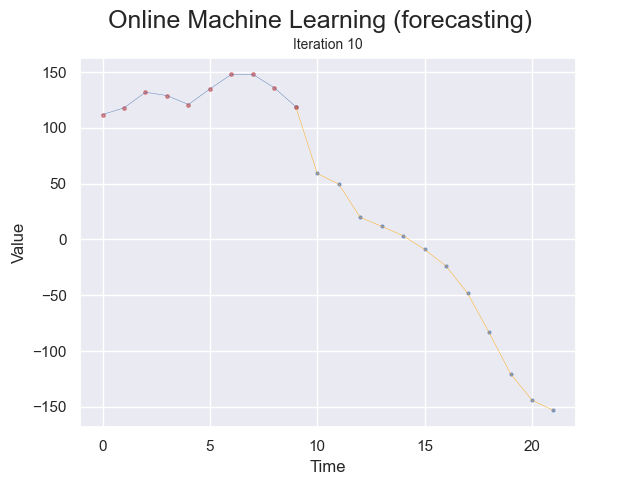
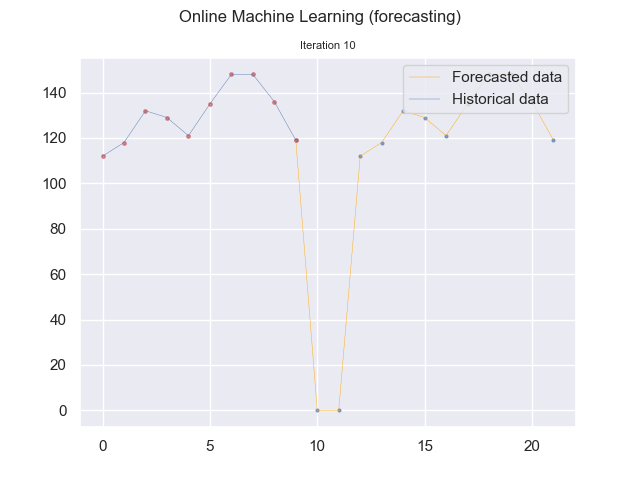
online forecasting on the fly

diff --git a/server_forecasting2.py b/server_forecasting2.py
@@ -1,0 +1,191 @@
+from http.server import BaseHTTPRequestHandler, HTTPServer
+import cgi
+import sys
+import rdflib
+import sys
+import data_processing.ttl2jsonld
+import data_processing.crawled
+from rdflib import Graph, plugin
+from functools import lru_cache
+from rdflib import Graph, URIRef, Literal, BNode
+from rdflib.namespace import FOAF, RDF
+from river import datasets
+from river import metrics
+from river import time_series
+import datetime as dt
+import seaborn as sns
+import numpy as np
+import matplotlib.pyplot as plt
+
+@lru_cache(maxsize=2048)
+class One(object):
+    def __init__(self):
+        self.a = None
+
+    def set_a(self,val):
+        self.a = val
+
+    def get_a(self):
+        return self.a
+
+One().set_a('There is no POST request received yet in the ml server')
+
+file_names = []
+y_list = []
+time_history=[0]
+temperature_history = []
+
+
+class webserverHandler(BaseHTTPRequestHandler):
+    """docstring for webserverHandler"""
+
+    def do_GET(self):
+        try:
+            if self.path.endswith("/output"):
+                self.send_response(200)
+                self.send_header('Content-Type', 'text/html')
+                self.end_headers()
+
+                """
+                output = ""
+                output += '<html><body>Hello!'
+                output += '<form method="POST" enctype="multipart/form-data" action="/hello"><h2> What would you like me to say?</h2><input name="message" type="text" /><input type="submit" value="Submit" /></form>'
+                output += '</body></html>'
+                """
+
+                output = One().get_a()
+
+                self.wfile.write(output.encode())
+                #print(output)
+                return
+
+
+
+        except IOError:
+            self.send_error(404, "File not found %s" % self.path)
+
+    def do_POST(self):
+        try:
+            if self.path.endswith("/input"):
+                self.send_response(200)
+                self.send_header('Content-Type', 'text/html')
+                self.end_headers()
+                ctype, pdict = cgi.parse_header(self.headers.get('Content-Type'))
+
+
+                content_len = int(self.headers.get('Content-length'))
+                post_body = self.rfile.read(content_len)
+                #pdict['boundary'] = bytes(pdict['boundary'], "utf-8")
+                #pdict['CONTENT-LENGTH'] = content_len
+                print('POST request input:')
+                print(post_body)
+
+                
+                testrdf = """
+                @prefix dcterms: <http://purl.org/dc/terms/> .
+                <http://example.org/about>
+                dcterms:temperature "10"@en ;
+                dcterms:salinity "20"@en .
+                """
+
+                ##CONVERSION TO JSON-LD
+                print('conversion to json-ld:')
+                #print(data_processing.ttl2jsonld.convert_rdf_2_jsonld(post_body))
+                input = data_processing.ttl2jsonld.convert_rdf_2_jsonld(post_body)
+                
+                g = Graph().parse(data=input, format='json-ld')
+                salinity = data_processing.crawled.crawl_parameter('http://purl.org/dc/terms/salinity', g)
+                print('crawled salinity is :' + salinity)
+
+                time_it = data_processing.crawled.crawl_parameter('http://purl.org/dc/terms/time', g)
+                print('crawled time is :' + time_it)
+
+                temperature = data_processing.crawled.crawl_parameter('http://purl.org/dc/terms/temperature', g)
+                print('crawled temperature is :' + temperature)
+                temperature = float(temperature)
+                temperature_history.append(float(temperature))
+
+                print (len(time_history))
+                if len(time_history)==1:
+                    global model
+                    period = 12
+                    model = time_series.SNARIMAX(
+                    p=period,
+                    d=1,
+                    q=period,
+                    m=period,
+                    sd=1
+                    )
+                    
+                    """
+                    p (int): Order of the autoregressive part. This is the number of past target values that will be included as features.
+                    d (int):Differencing order.
+                    q (int):Order of the moving average part. This is the number of past error terms that will be included as features.
+                    m (int) – defaults to 1:Season length used for extracting seasonal features. If you believe your data has a seasonal pattern, then set this accordingly. For instance, if the data seems to exhibit a yearly seasonality, and that your data is spaced by month, then you should set this to 12. Note that for this parameter to have any impact you should also set at least one of the p, d, and q parameters.
+                    sp (int) – defaults to 0: Seasonal order of the autoregressive part. This is the number of past target values that will be included as features.
+                    sd (int) – defaults to 0: Seasonal differencing order.
+                    sq (int) – defaults to 0: Seasonal order of the moving average part. This is the number of past error terms that will be included as features.
+                    """
+               
+                    
+
+                #Training Online Forecosting model
+                horizon=12
+                model = model.learn_one(temperature)
+                
+                #Online Forecasting
+                forecast_output = model.forecast(horizon=horizon)
+                print(forecast_output)
+                t_list2=[]
+                for i in range(len(forecast_output)+1):
+                    t_list2.append(time_history[-1] + i )
+                forecast_output.insert(0, temperature_history[-1])
+
+                plt.figure()
+                sns.set()
+
+                #Plotting
+                print(forecast_output)
+                plt.scatter(t_list2, forecast_output, c='b', alpha=0.6, s=4)
+                plt.plot(t_list2, forecast_output, c='orange', linewidth=0.3, label='Forecasted data')
+                plt.scatter(time_history, temperature_history, c='r', alpha=0.6, s=6)
+                plt.plot(time_history, temperature_history, linewidth=0.3, label='Historical data')
+                time_history.append(time_history[-1] + 1)
+                plt.suptitle("Online Machine Learning (forecasting)", fontsize=12)
+                plt.title("Iteration {y}".format(y=time_history[-1]), fontsize=8)
+                plt.legend(loc='upper right')
+                plt.savefig("./output_ml/it_{y}.png".format(y=time_history[-1]))
+                print("./output_ml/it_{y}.png".format(y=time_history[-1]))
+                file_names.append("./output_ml/it_{y}.png".format(y=time_history[-1]))
+                test = 'gelukt'
+                One().set_a('gelukt')
+                ##ADD PREDICTION TO GRAPH
+                #self.wfile.write(test.encode())
+
+                if (time_it == 140):
+                    import imageio
+                    images = []
+                    for filename in file_names:
+                        images.append(imageio.imread(filename))
+                    imageio.mimsave('./output_ml/movie.gif', images)
+
+                return
+        except:
+            #self.send_error(404, "{}".format(sys.exc_info()[1]))
+            print(sys.exc_info())
+
+def main():
+    try:
+        port = 8000
+        server = HTTPServer(('', port), webserverHandler)
+        print("Web server running on port %s" % port)
+        server.serve_forever()
+
+
+    except KeyboardInterrupt:
+        print(" ^C entered stopping web server...")
+        server.socket.close()
+
+
+if __name__ == '__main__':
+    main()

diff --git a/server_forecasting.py b/server_forecasting.py
@@ -124,16 +124,20 @@ class webserverHandler(BaseHTTPRequestHandler):
                     multiplicative (defaults to False): Whether or not to use a multiplicative formulation.
                     """
 
+                    
                     #Evalute TODO
                     dataset = datasets.AirlinePassengers()
                     metric = metrics.MAE()
-
-                    time_series.evaluate(
-                        dataset,
-                        model,
-                        metric,
-                        horizon=12
+                    time_series.evaluate.progressive_val_score(
+                            #dataset,
+                            model,
+                            metric,
+                            horizon=12
                     )
+
+
+                
+                    
 
                 #Training Online Forecosting model
                 horizon=12

diff --git a/data_processing/gif_creator.py b/data_processing/gif_creator.py
@@ -1,0 +1,24 @@
+import imageio
+from os import walk
+
+f = []
+for (dirpath, dirnames, filenames) in walk('../output_ml'):
+    f.extend(filenames)
+    break
+
+import re 
+
+def sorted_nicely( l ): 
+    """ Sort the given iterable in the way that humans expect.""" 
+    convert = lambda text: int(text) if text.isdigit() else text 
+    alphanum_key = lambda key: [ convert(c) for c in re.split('([0-9]+)', key) ] 
+    return sorted(l, key = alphanum_key)
+
+test = []
+for x in sorted_nicely(f):
+    test.append(x)
+
+images = []
+for filename in test:
+    images.append(imageio.imread('../output_ml/' + filename))
+imageio.mimsave('../output_ml/gif_forecasting_SNARIMAX.gif', images)
